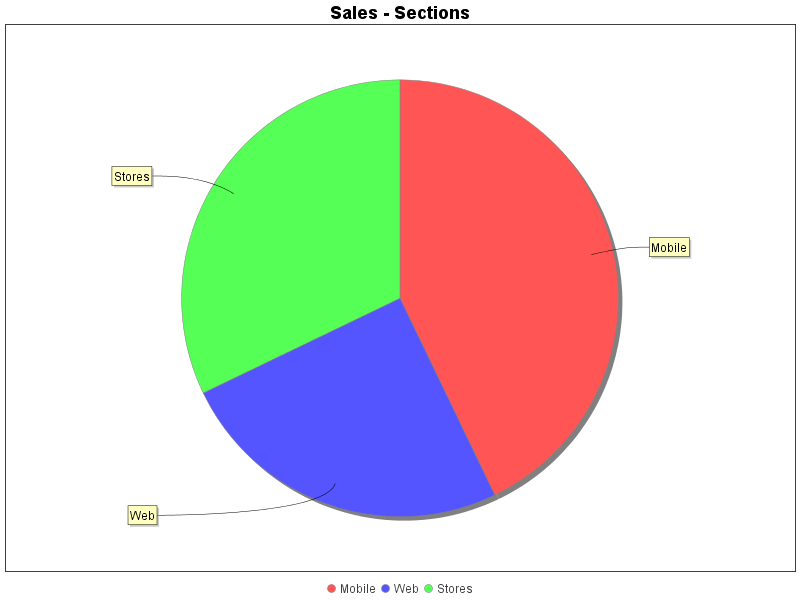
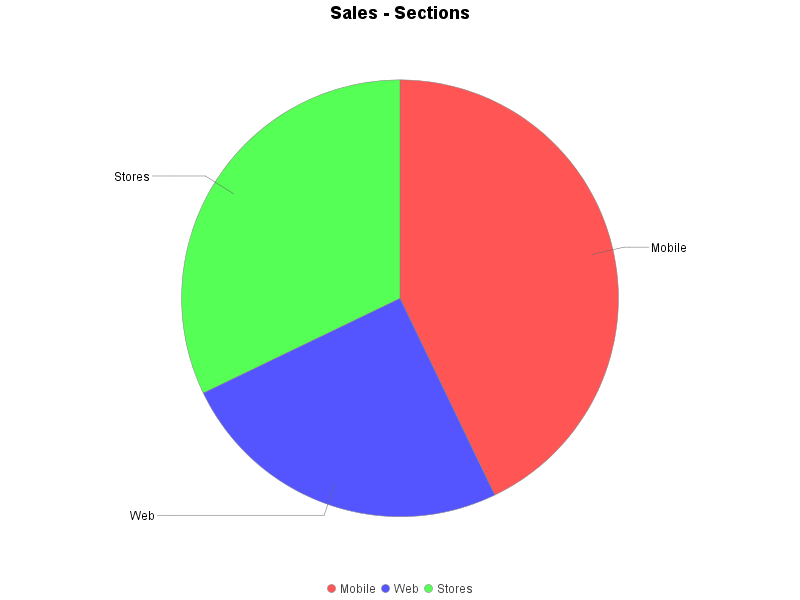
theme for pie chart

diff --git a/ch.obermuhlner.csv2chart/src/ch/obermuhlner/csv2chart/Application.java b/ch.obermuhlner.csv2chart/src/ch/obermuhlner/csv2chart/Application.java
@@ -3,6 +3,7 @@ package ch.obermuhlner.csv2chart;
 import java.awt.BasicStroke;
 import java.awt.Color;
 import java.awt.Font;
+import java.awt.Stroke;
 import java.io.BufferedOutputStream;
 import java.io.FileOutputStream;
 import java.io.IOException;
@@ -19,6 +20,8 @@ import org.jfree.chart.JFreeChart;
 import org.jfree.chart.StandardChartTheme;
 import org.jfree.chart.block.BlockBorder;
 import org.jfree.chart.plot.CategoryPlot;
+import org.jfree.chart.plot.PieLabelLinkStyle;
+import org.jfree.chart.plot.PiePlot;
 import org.jfree.chart.plot.Plot;
 import org.jfree.chart.plot.XYPlot;
 import org.jfree.chart.renderer.category.BarRenderer;
@@ -182,6 +185,16 @@ public class Application {
 			for (int i = 0; i < xyPlot.getSeriesCount(); i++) {
 				xyPlot.getRenderer().setSeriesStroke(i, new BasicStroke(3.0f));
 			}
+		} else if (plot instanceof PiePlot) {
+			PiePlot piePlot = (PiePlot) plot;
+			piePlot.setOutlineVisible(false);
+			piePlot.setShadowPaint(null);
+			
+			piePlot.setLabelBackgroundPaint(Color.white);
+			piePlot.setLabelShadowPaint(null);
+			piePlot.setLabelOutlinePaint(null);
+			piePlot.setLabelLinkStyle(PieLabelLinkStyle.STANDARD);
+			piePlot.setLabelLinkPaint(gray);
 		}
 	
 		LegendTitle legend = chart.getLegend();
